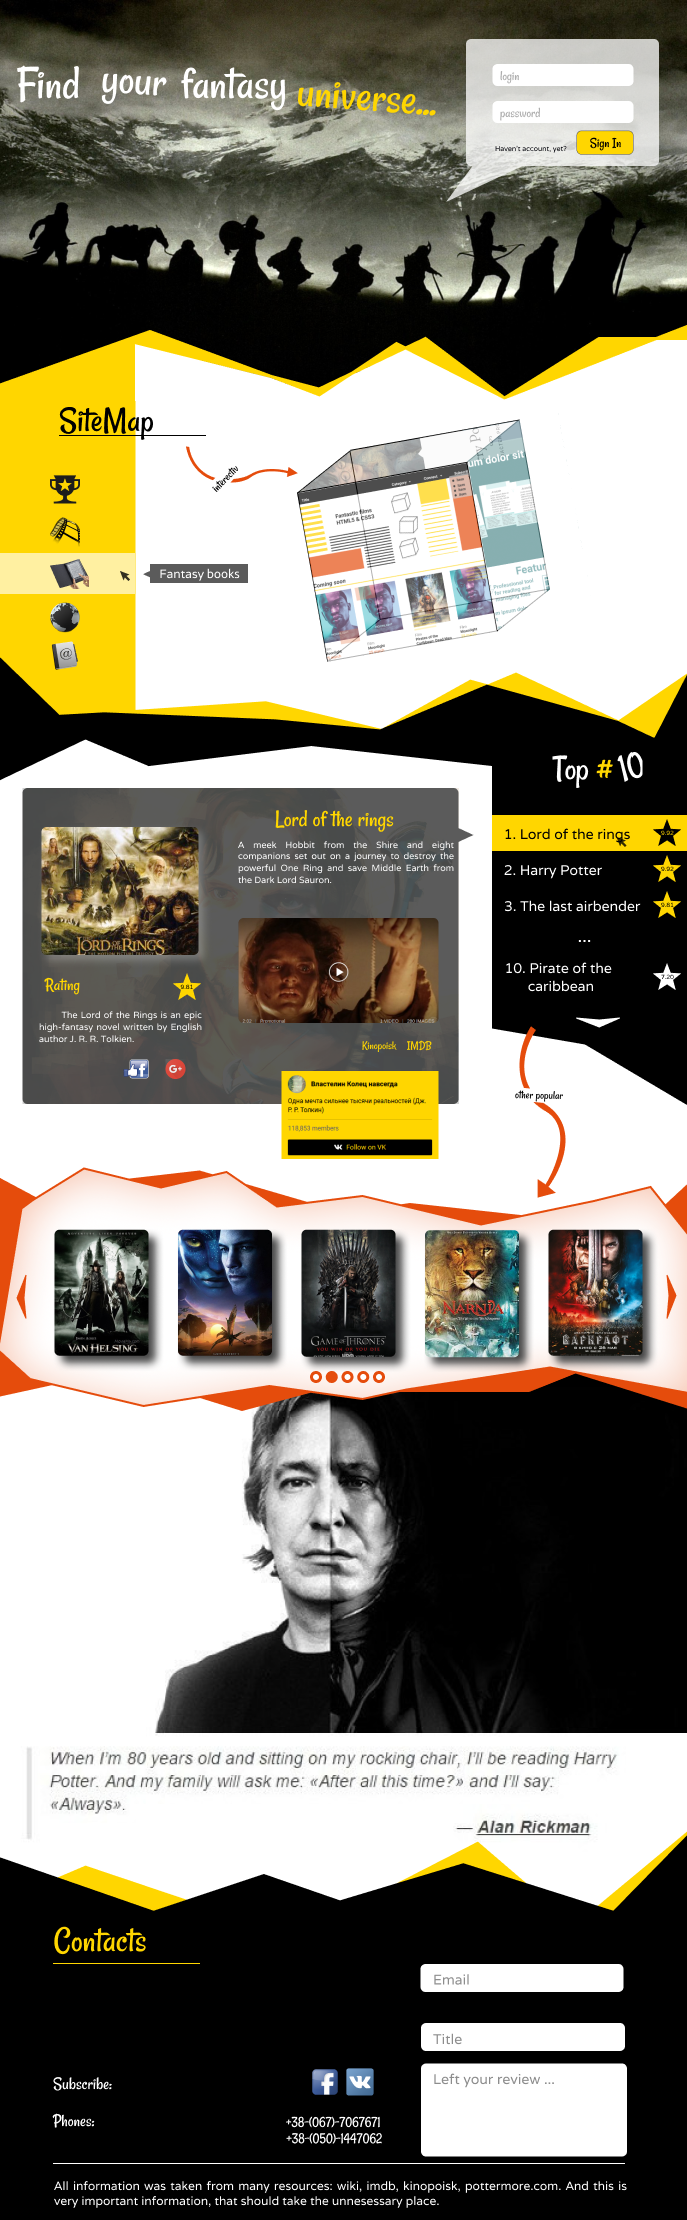
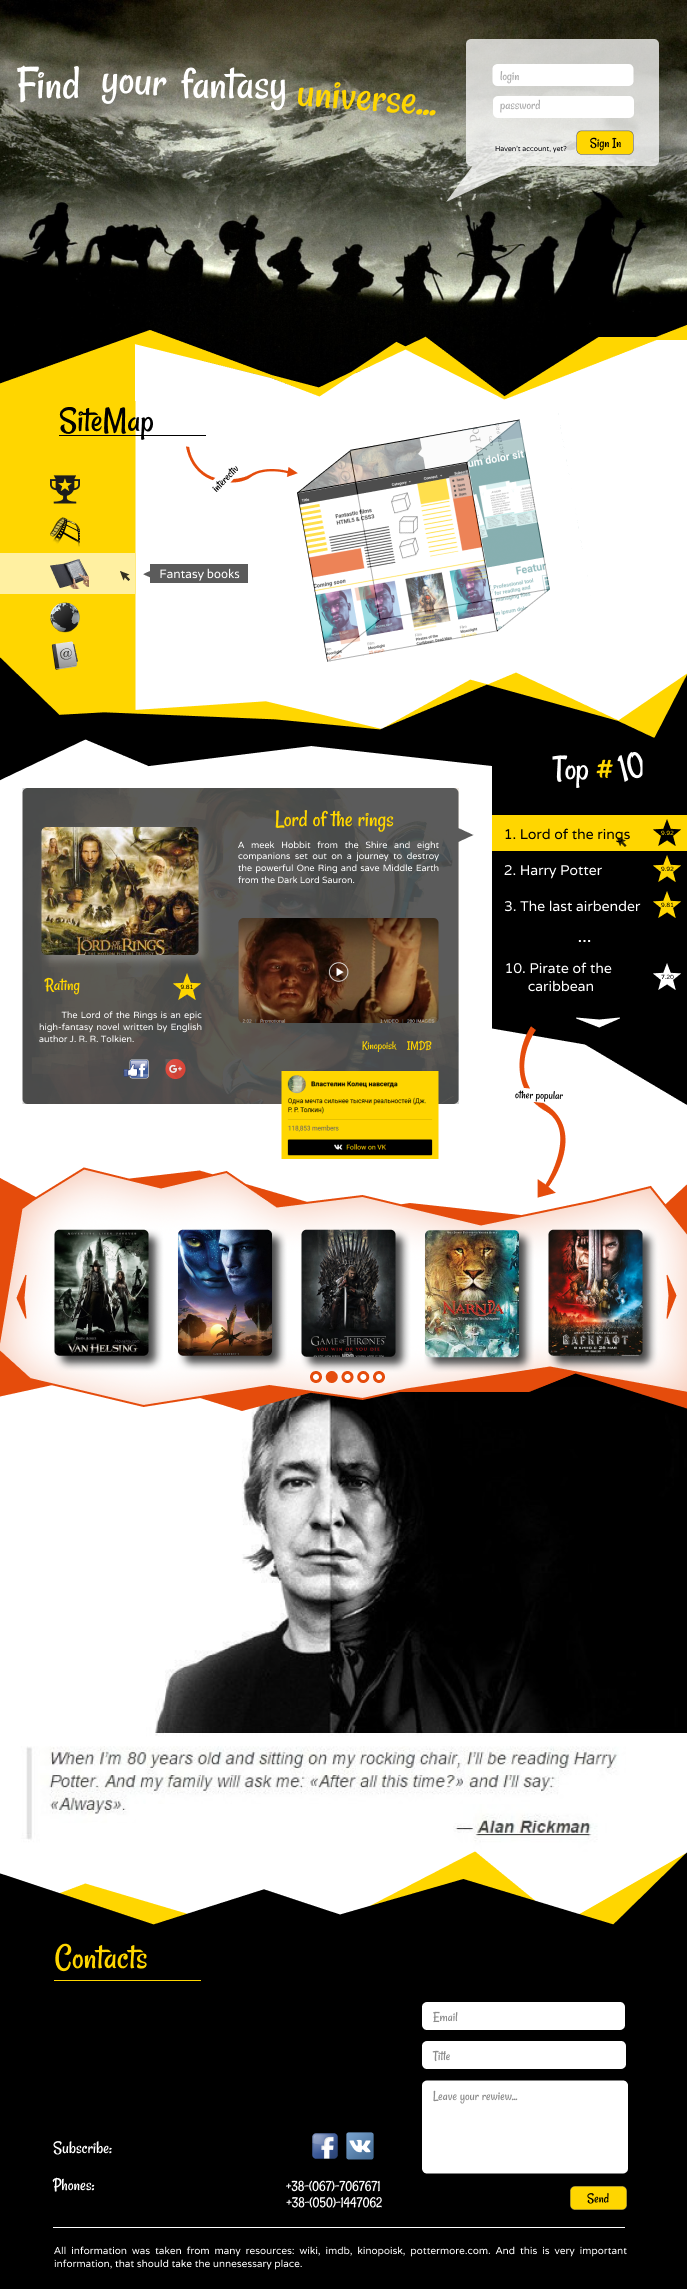
fix

diff --git a/index.html b/index.html
@@ -3,7 +3,6 @@
 <head>
     <meta charset="UTF-8">
     <title>WebKubic</title>
-
     <link rel="stylesheet" href="index.css">
 </head>
 <body>
@@ -25,10 +24,11 @@
             <h2>SiteMap</h2>
             <nav>
                 <ul>
-                    <li><a></a></li>
-                    <li><a></a></li>
-                    <li><a></a></li>
-                    <li><a></a></li>
+                    <li><a><img src="img/menu_top.png" alt="img/oops.png"></a></li>
+                    <li><a><img src="img/menu_movie.png" alt="img/oops.png"></a></li>
+                    <li><a><img src="img/menu_book.png" alt="img/oops.png"></a></li>
+                    <li><a><img src="img/menu_planet.png" alt="img/oops.png"></a></li>
+                    <li><a><img src="img/menu_contacts.png" alt="img/oops.png"></a></li>
                 </ul>
             </nav>
         </div>
@@ -47,9 +47,9 @@
         <div>
             <div>
                 <div>
-                    <img src="https://images.moviepilot.com/image/upload/c_fill,h_470,q_auto:good,w_620/tihkv9pzwnfxhwmeh3sn.jpg">
+                    <img src="img/LordOftheRings.png" alt="img/oops.png">
                 </div>
-                <div>Rating</div> <!--TODO star icon-->
+                <p>Rating <span>☆</span></p> <!--TODO star icon (css)-->
                 <p>
                     The Lord of the Rings is an epic high-fantasy
                     novel written by English author J. R. R. Tolkien.
@@ -64,10 +64,10 @@
                     Ring and save Middle Earth from the Dark Lord Sauron.
                 </p>
                 <iframe src="http://www.imdb.com/videoembed/vi2073101337" allowfullscreen></iframe>
-                <div>
+                <p>
                     <a href="https://www.kinopoisk.ru/film/328/">Kinopoisk</a>
                     <a href="http://www.imdb.com/title/tt0120737/">IMDB</a>
-                </div>
+                </p>
                 <div>
                     <script type="text/javascript" src="//vk.com/js/api/openapi.js?142"></script>
 
@@ -87,27 +87,28 @@
         <div>
             <h2>Top #10</h2>
             <ul>
-                <li>Lord of the rings</li>
-                <li>Harry Potter</li>
-                <li>The last airbender</li>
+                <li>Lord of the rings<span>☆</span></li>
+                <li>Harry Potter<span>☆</span></li>
+                <li>The last airbender<span>☆</span></li>
                 <li>...</li>
-                <li>Pirate of the caribbean</li>
+                <li>Pirate of the caribbean<span>☆</span></li>
+                <!--TODO star icons (css)-->
             </ul>
             <div><button></button></div>
         </div>
         <div>
             <div>
-                <div></div> <!--TODO left slider icon-->
+                <div></div> <!--TODO left slider icon (css)-->
                 <div>
                     <ul>
-                        <li><img src="https://upload.wikimedia.org/wikipedia/en/5/55/Van_Helsing_poster.jpg"></li>
-                        <li><img src="http://cdn.images.express.co.uk/img/dynamic/36/590x/secondary/Avatar-poster-421587.jpg"></li>
-                        <li><img src="http://vignette3.wikia.nocookie.net/gameofthrones/images/2/2c/Season_1_Poster.jpg/revision/latest?cb=20110406150536"></li>
-                        <li><img src="https://upload.wikimedia.org/wikipedia/en/a/a5/Narniacd.jpg"></li>
-                        <li><img src="http://uzkinoxit.com/_nw/45/27869467.jpg"></li>
+                        <li><a><img src="img/slider_VanHelsing.png" alt="img/oops.png"></a></li>
+                        <li><a><img src="img/slider_avatar.png" alt="img/oops.png"></a></li>
+                        <li><a><img src="img/slider_GameOfThrones.png" alt="img/oops.png"></a></li>
+                        <li><a><img src="img/slider_Narnia.png" alt="img/oops.png"></a></li>
+                        <li><a><img src="img/slider_Warcraft.png" alt="img/oops.png"></a></li>
                     </ul>
                 </div>
-                <div></div> <!--TODO right slider icon-->
+                <div></div> <!--TODO right slider icon (css)-->
             </div>
             <div>
                 <ul>
@@ -116,11 +117,14 @@
                     <div></div>
                     <div></div>
                     <div></div>
+                    <!--TODO slider pages (css)-->
                 </ul>
             </div>
         </div>
         <div>
-            <img src="https://s-media-cache-ak0.pinimg.com/originals/18/1f/9f/181f9f4617c9825d374dbd323deff100.jpg">
+            <div>
+                <img src="img/Alan_Rickman.png" alt="img/oops.png">
+            </div>
             <p>
                 “When I’m 80 years old and sitting in my rocking chair,
                 I’ll be reading Harry Potter. And my family will say to me,
@@ -132,8 +136,15 @@
     <footer>
         <h2>Contacts</h2>
         <div>
-            <p>Subscribe: <span><img src=""></span></p>
-            <p>Phones: <span></span><span></span></p>
+            <div>
+                <div><p>Subscribe:</p></div>
+                <div><img src="img/fb.png" alt="img/oops.png"><img src="img/vk.png" alt="img/oops.png"></div>
+            </div>
+            <div>
+                <div><p>Phones:</p></div>
+                <div><p>+380501447062</p><p>+380957067671</p></div>
+            </div>
+            <p>Phones:</p>
         </div>
         <div>
             <form action="/review" method="POST">
